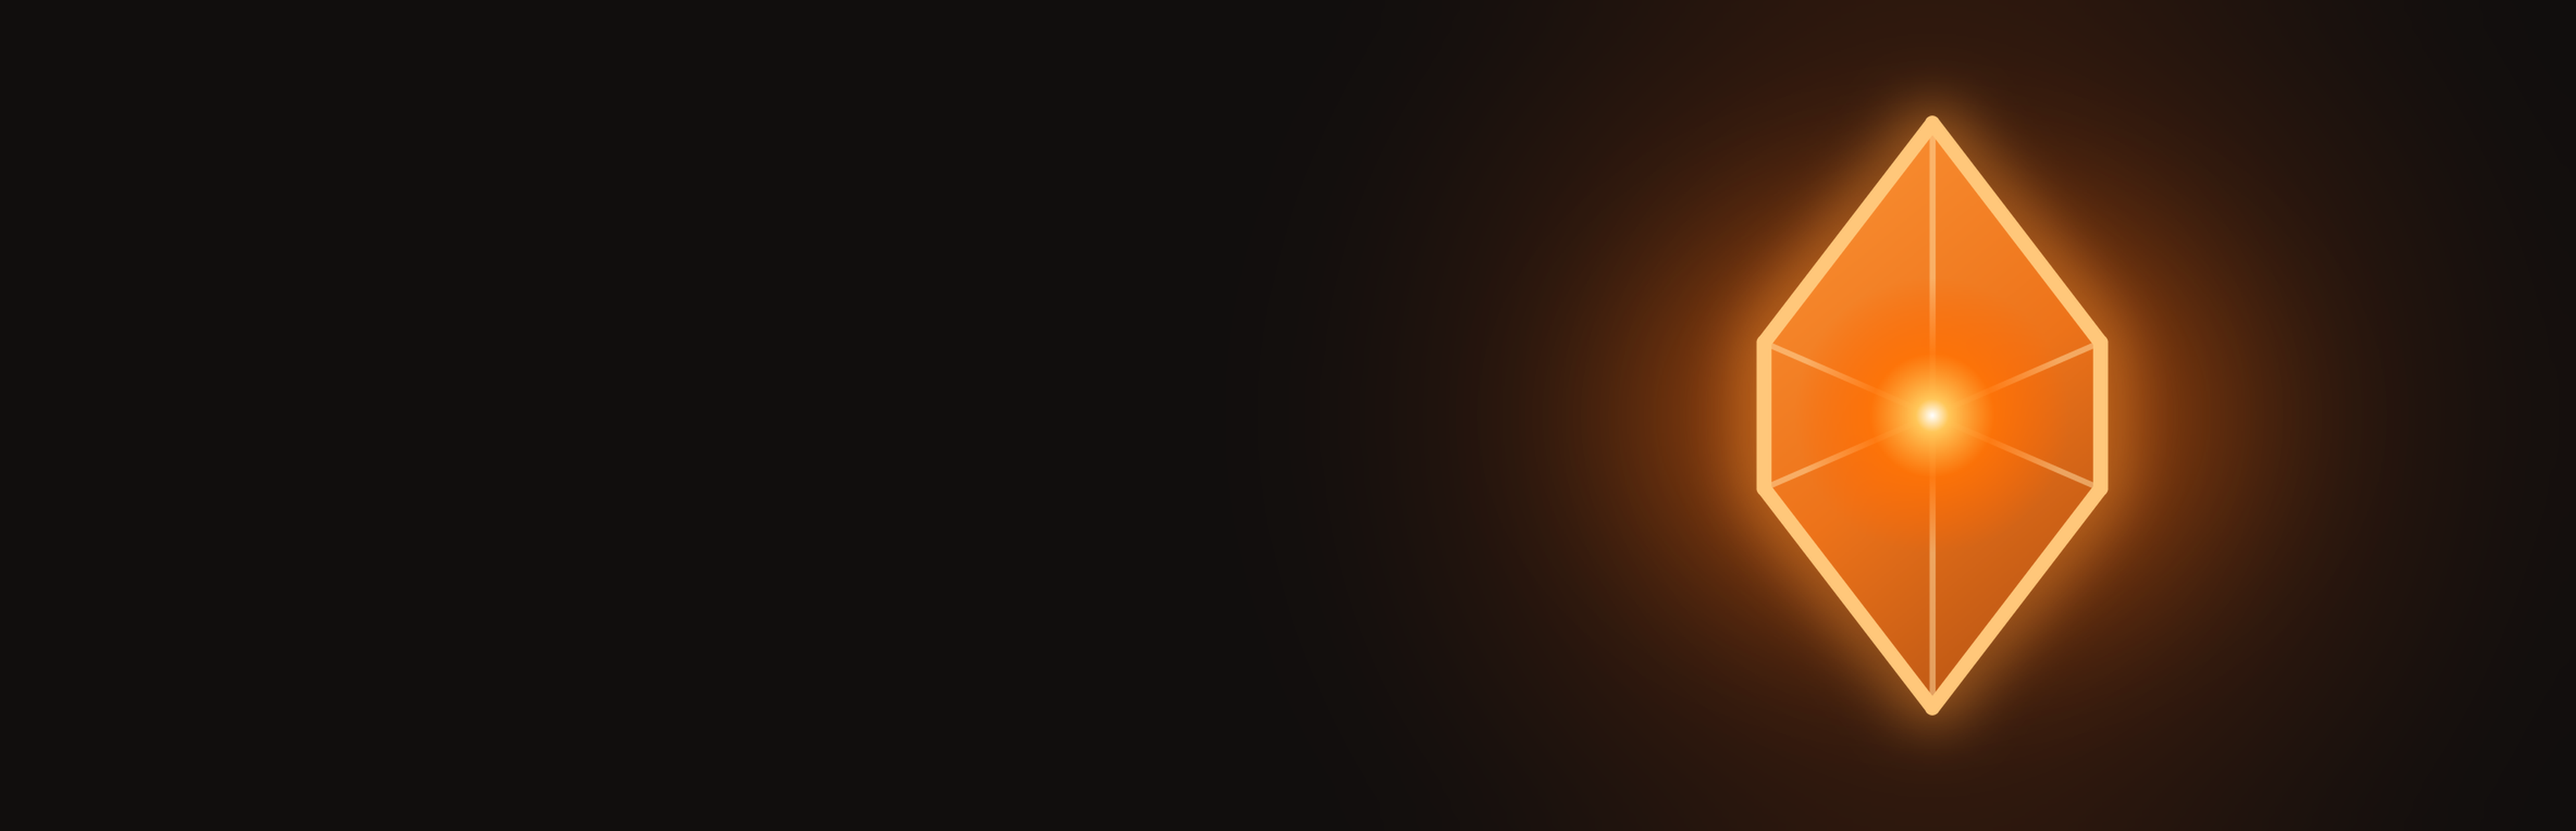
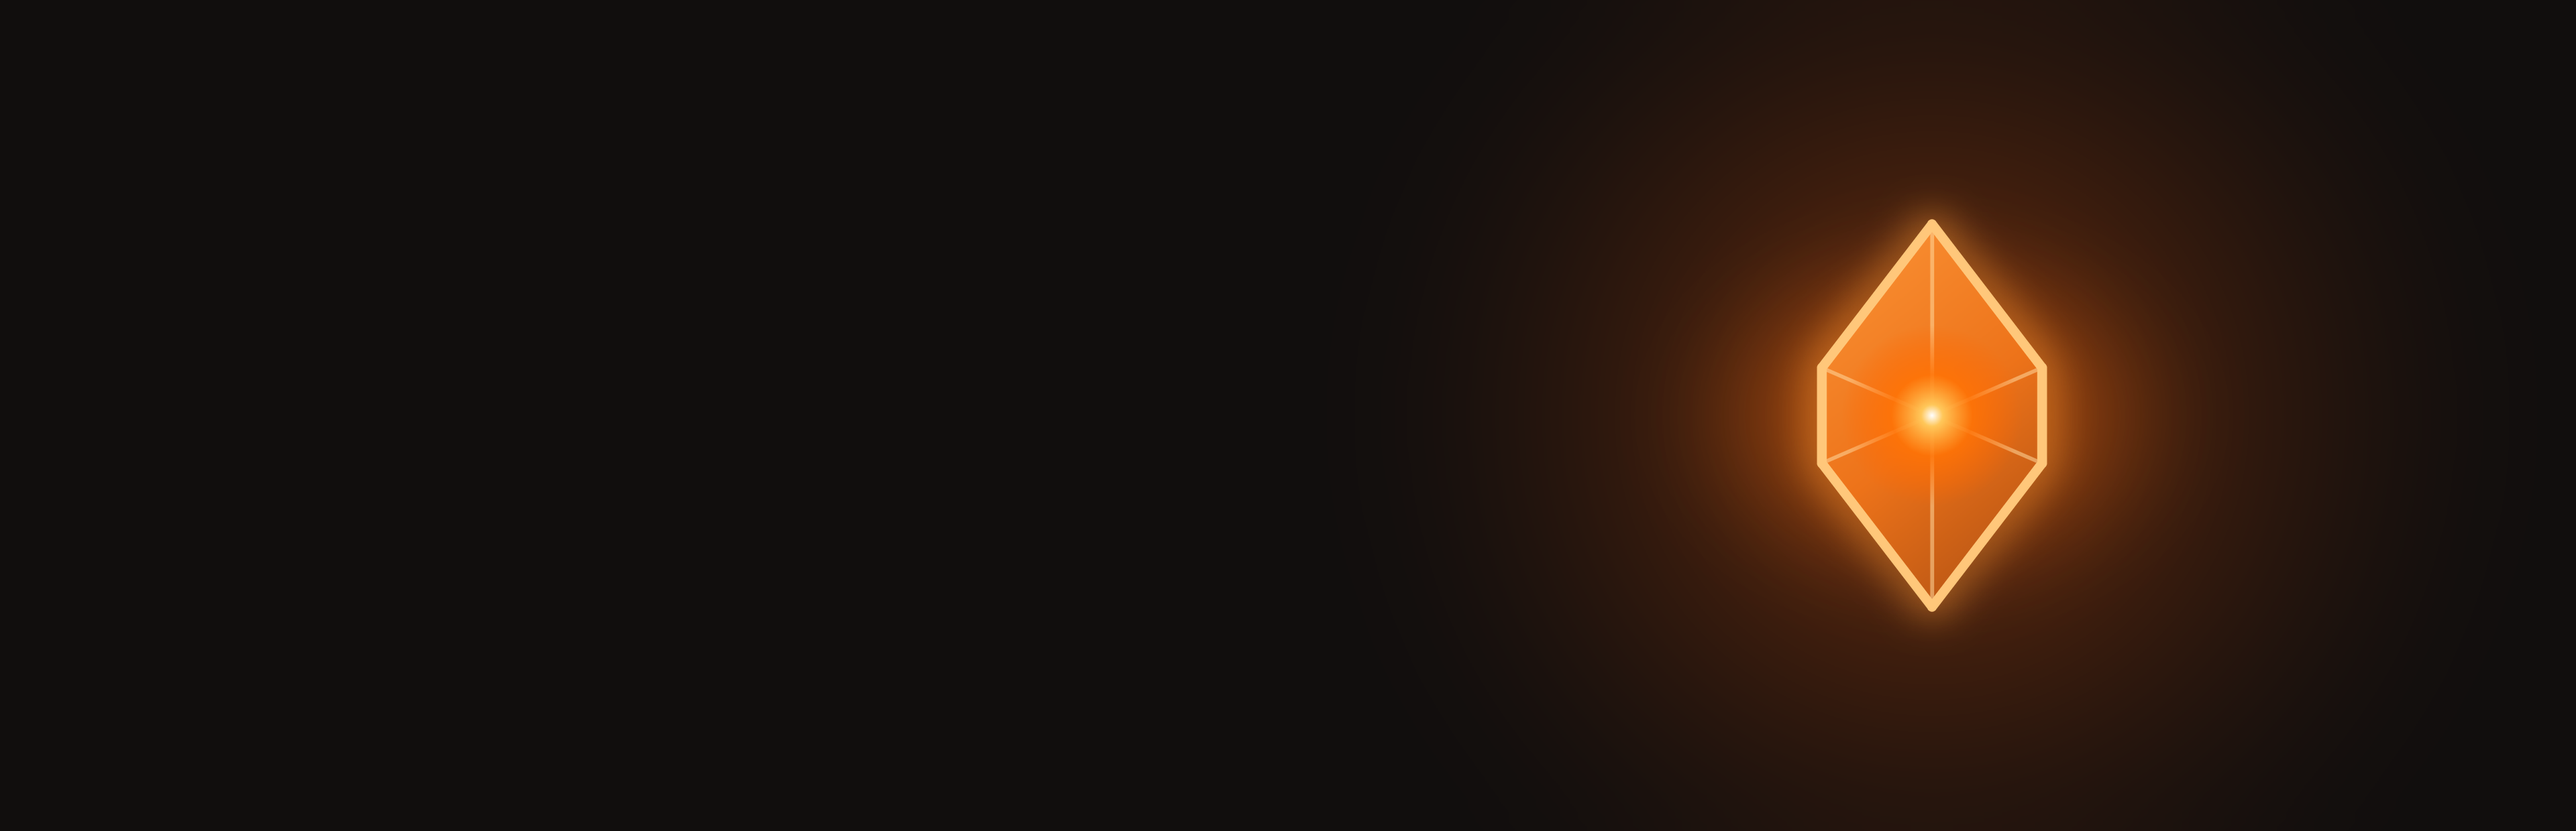
Fit the crystal of Crucible's Steam hero inside the band Steam shows on a Steam Deck, where its tips were cut off

Changed region(s): [[0.5938, 0.0919, 0.9062, 0.8887]]

diff --git a/linux/packaging/steamos/make-steam-art.py b/linux/packaging/steamos/make-steam-art.py
@@ -105,9 +105,10 @@ def wide():
 
 
 def hero():
+    """Steam shows the hero's middle band (about three quarters of its height on a Steam Deck), so the crystal stays inside it."""
     width, height = 3840, 1240
-    canvas = backdrop(width, height, (2880, height / 2), 1050).convert("RGBA")
-    place_crystal(canvas, 1100, (2880, height / 2))
+    canvas = backdrop(width, height, (2880, height / 2), 900).convert("RGBA")
+    place_crystal(canvas, 720, (2880, height / 2))
     return canvas.convert("RGB")
 
 
